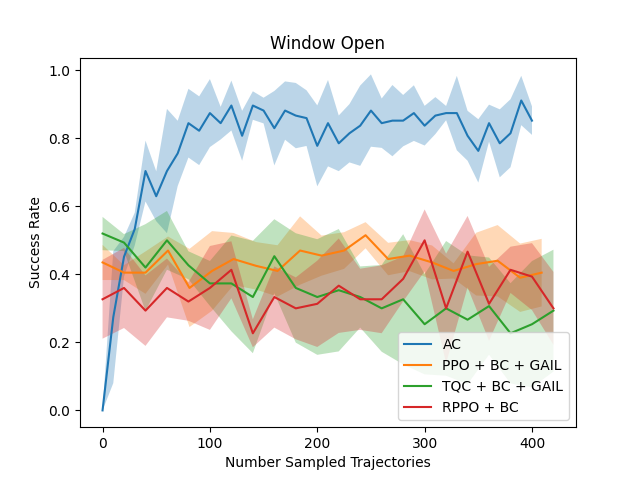
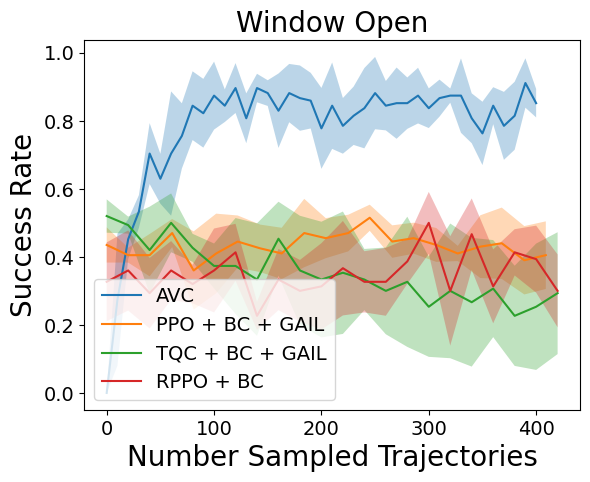
bigger plots

diff --git a/chapters/Experiments.tex b/chapters/Experiments.tex
@@ -193,7 +193,7 @@ Following the insights presented in this section, we will use the actor planner 
     \centering
     \begin{subfigure}[t]{0.65\textwidth}
       \includegraphics[width=\textwidth]{images/Plan_vs_Actions/Reach.png}
-      \caption{Reach environment, 1 expert demonstration. Comparison of the action optimization mode (blue) and actor planner optimization mode (orange).
+      \caption{Reach environment, One expert demonstration. Comparison of the action optimization mode (blue) and actor planner optimization mode (orange).
       Each experiment was repeated twice. The shaded region indicates the standard variation between runs. }
       \label{fig:plot1}
     \end{subfigure}
@@ -234,23 +234,23 @@ decouples the actor from the critic, as discussed in section \ref{inference_time
 \begin{figure}[htbp]
   \centering
   \begin{subfigure}[t]{0.45\textwidth}
-    \includegraphics[width=\textwidth]{images/FineTuning/Window Open.png}
+    \includegraphics[width=\textwidth]{images/4_400/Window Open.png}
     \caption{Window Open environment, 4 expert demonstrations.}
     \label{fig:plot3}
   \end{subfigure}
   \begin{subfigure}[t]{0.45\textwidth}
-    \includegraphics[width=\textwidth]{images/FineTuning/Reach.png}
+    \includegraphics[width=\textwidth]{images/4_400/Reach.png}
     \caption{Reach environment, 4 expert demonstrations.}
     \label{fig:plot1}
   \end{subfigure}
   \medskip
   \begin{subfigure}[t]{0.45\textwidth}
-    \includegraphics[width=\textwidth]{images/FineTuning/Push.png}
+    \includegraphics[width=\textwidth]{images/15_400/Push.png}
     \caption{Push environment, 15 expert demonstrations.}
     \label{fig:plot2}
   \end{subfigure}
   \begin{subfigure}[t]{0.45\textwidth}
-    \includegraphics[width=\textwidth]{images/FineTuning/Pick and Place.png}
+    \includegraphics[width=\textwidth]{images/15_400/Pick and Place.png}
     \caption{Pick and Place environment, 15 expert demonstrations.}
     \label{fig:plot4}
   \end{subfigure}
@@ -302,15 +302,15 @@ are shown in figure \ref{fig:guided_ref}.\\
     \centering
     \begin{subfigure}[t]{0.32\textwidth}
       \includegraphics[width=\textwidth]{images/1_2000/Reach.png}
-      \caption{1 expert demonstration.}
+      \caption{One expert demonstration.}
     \end{subfigure}
     \begin{subfigure}[t]{0.32\textwidth}
       \includegraphics[width=\textwidth]{images/1_2000/Window Open.png}
-      \caption{1 expert demonstration.}
+      \caption{One expert demonstration.}
     \end{subfigure}
     \begin{subfigure}[t]{0.32\textwidth}
       \includegraphics[width=\textwidth]{images/0/Drawer Close.png}
-      \caption{0 expert demonstrations.}
+      \caption{Zero expert demonstrations.}
       \label{fig:drawerclose}
     \end{subfigure}
     \medskip
@@ -457,17 +457,17 @@ The results are shown in figure \ref{fig:dense_vs_single}.\\
   \centering
   \begin{subfigure}[t]{0.32\textwidth}
     \includegraphics[width=\textwidth]{images/dense_vs_sparse_1/Reach.png}
-    \caption{1 expert demonstration.}
+    \caption{One expert demonstration.}
   \end{subfigure}
-  \medskip
+  \hfill
   \begin{subfigure}[t]{0.32\textwidth}
     \includegraphics[width=\textwidth]{images/dense_vs_sparse_1/Window Open.png}
-    \caption{1 expert demonstration.}
+    \caption{One expert demonstration.}
   \end{subfigure}
   \hfill
   \begin{subfigure}[t]{0.32\textwidth}
     \includegraphics[width=\textwidth]{images/dense_vs_sparse_0/Window Open.png}
-    \caption{0 expert demonstrations.}
+    \caption{Zero expert demonstrations.}
   \end{subfigure}
   \caption{Comparison of \ac{avc} in single observation and \ac{coavc} in continued observation \ac{mdp} environments. Each experiment was repeated three times with 30 evaluation episodes per data point.
   }
